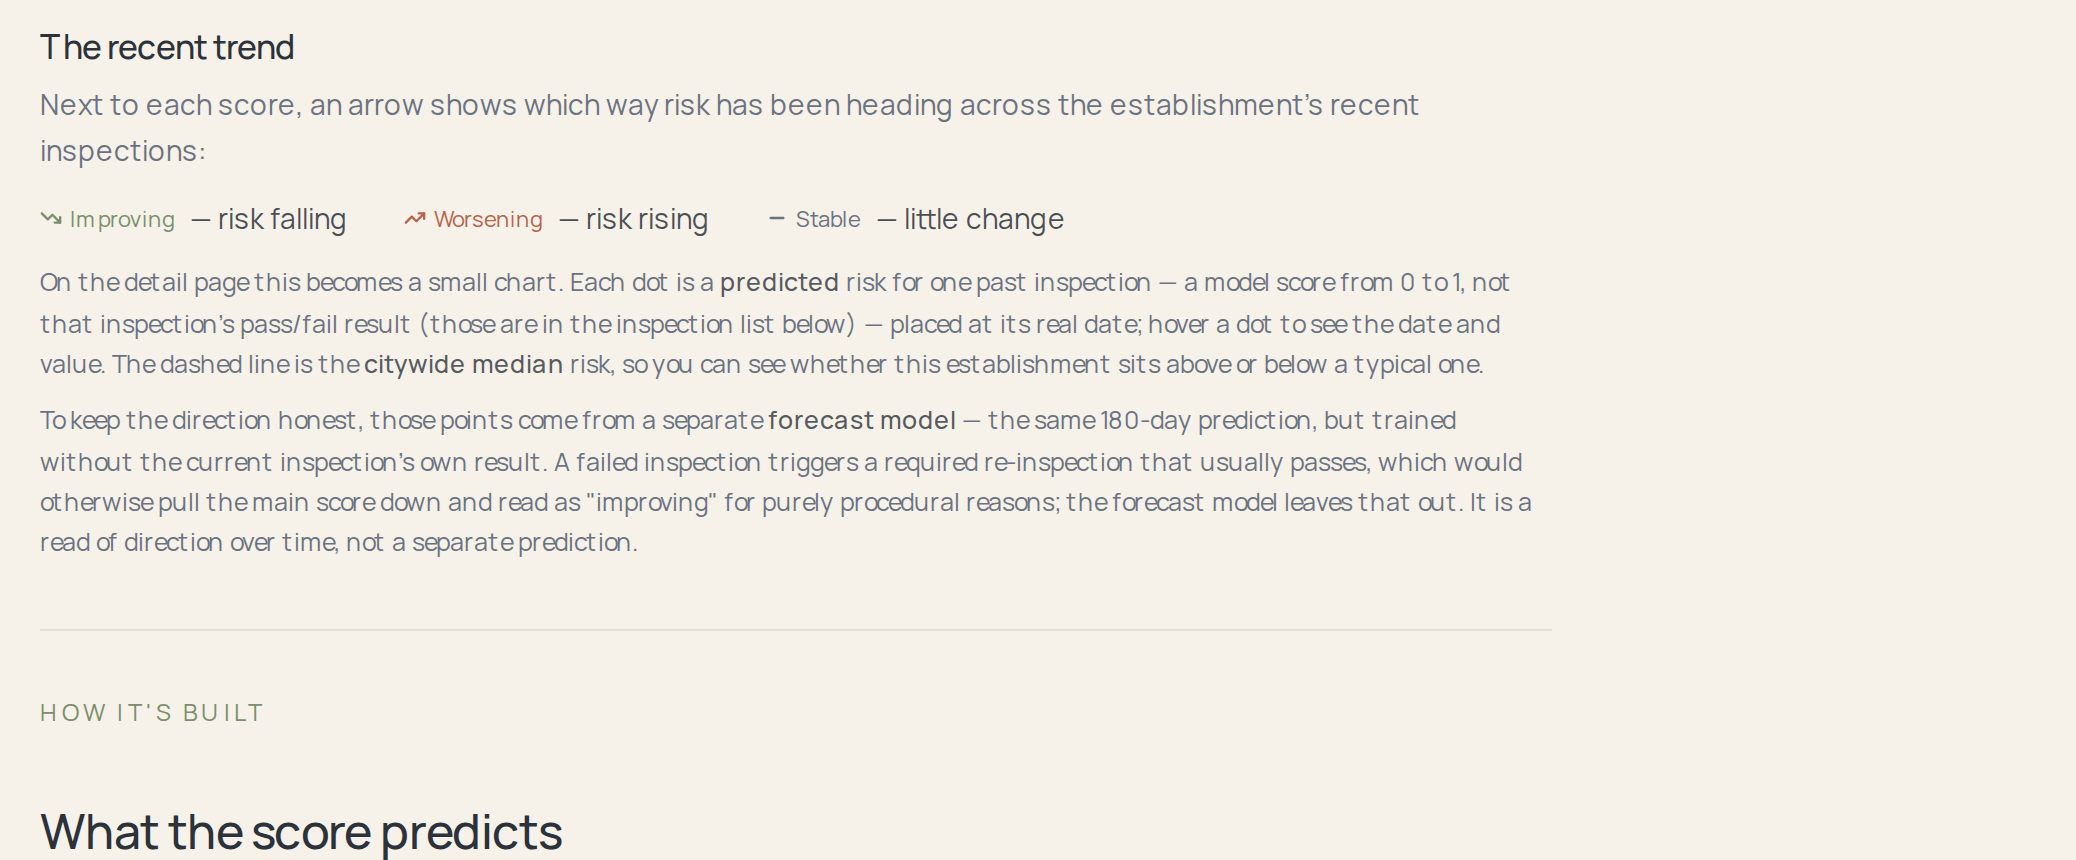
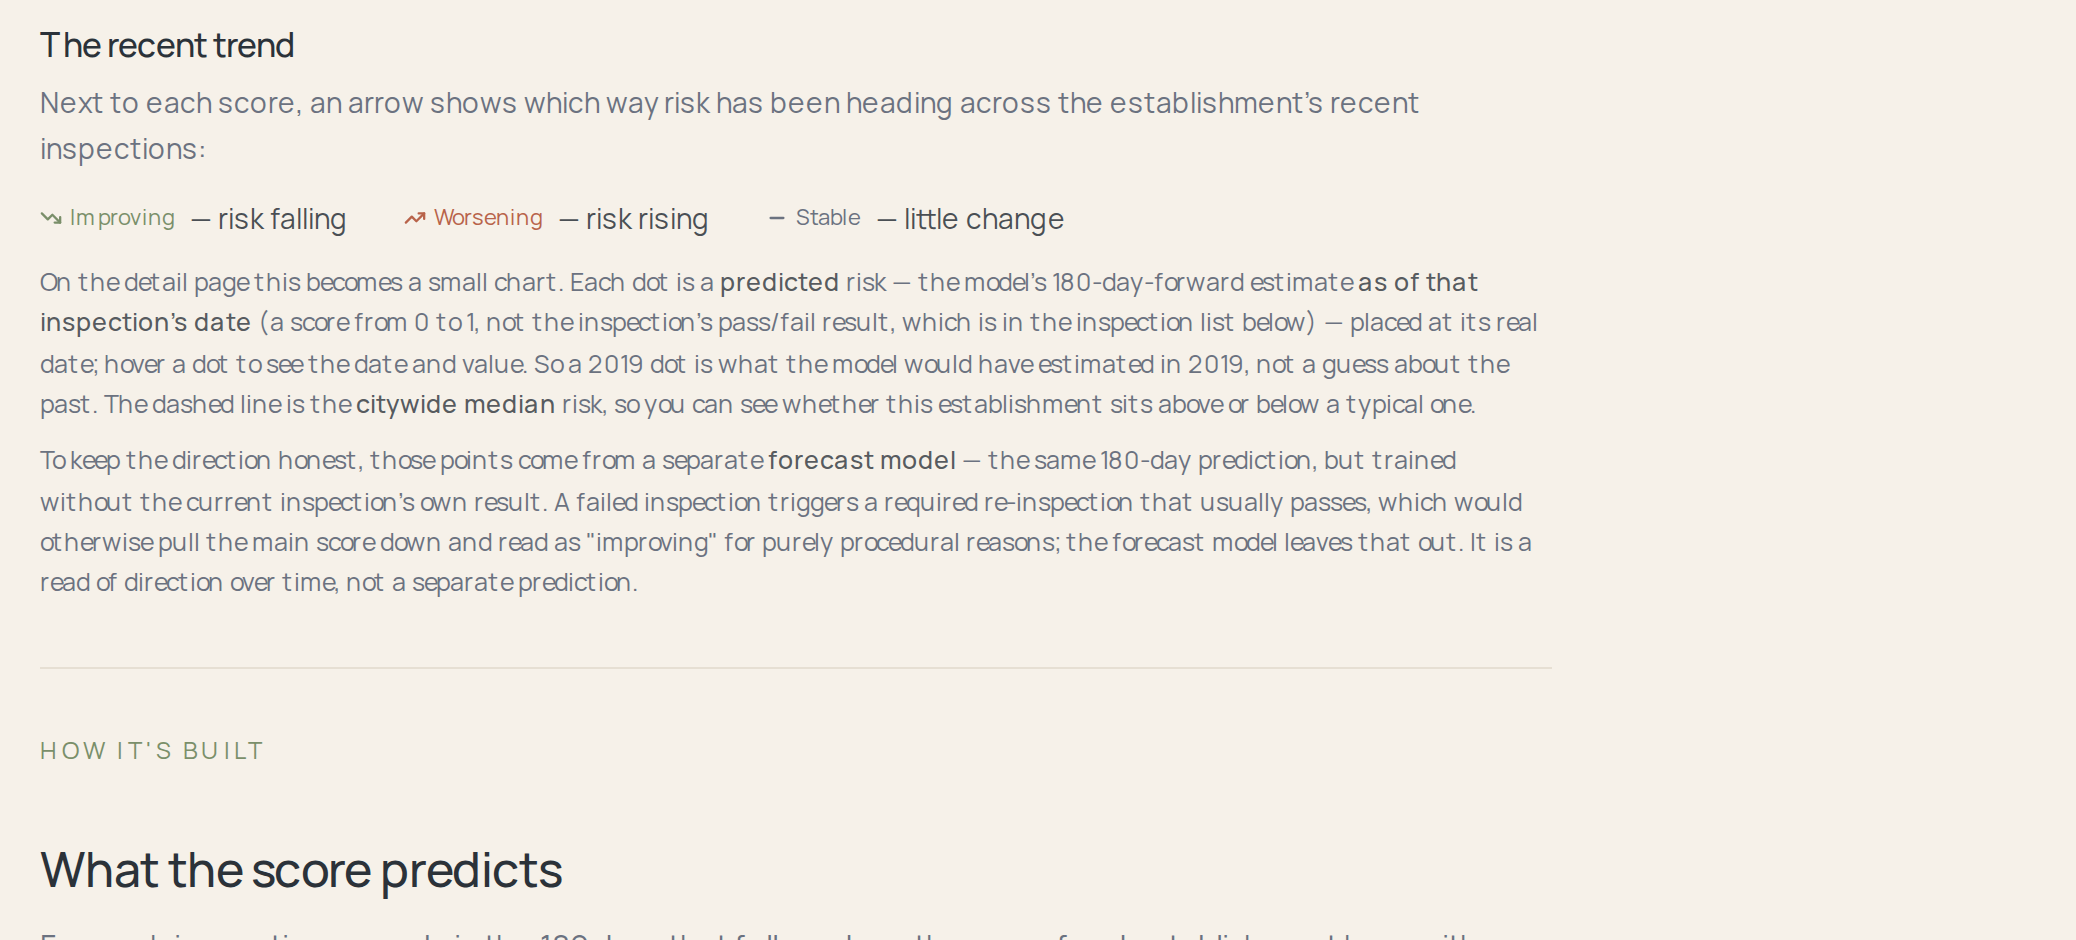
docs(how-it-works): explain per-date predictions + the latest-inspection anchoring
- recent-trend section: each chart dot is the model's 180-day-forward estimate
  AS OF that inspection's date — so a 2019 dot is what the model would have
  estimated in 2019, not a guess about the past.
- "Reading the score": each score is anchored to the establishment's most recent
  inspection on file, so a place not inspected in a while shows older data
  throughout (not a fresh reading). Also fixes a stale "90-day trend" reference.

Re-applied onto the rebased branch (decision record is 0011 here).

diff --git a/app/src/app/how-it-works/page.tsx b/app/src/app/how-it-works/page.tsx
@@ -193,7 +193,12 @@ export default async function HowItWorksPage() {
               means the number is honest about its own odds: across the
               establishments the model scores around 20%, about 1 in 5 actually
               has an event. The map and list summarise that number two ways: a
-              risk band and a 90-day trend.
+              risk band and a recent trend. Each score is anchored to the
+              establishment&apos;s{" "}
+              <span className="font-medium text-ink/80">most recent inspection on
+              file</span>{" "}(its date is shown on the detail page), so an
+              establishment that hasn&apos;t been inspected in a while shows older
+              data throughout — not a fresh reading.
             </p>
 
             <h3 className="text-[1.05rem] font-medium tracking-tight mt-6">
@@ -273,12 +278,16 @@ export default async function HowItWorksPage() {
             </div>
             <p className="text-[12.5px] text-muted leading-relaxed mt-3">
               On the detail page this becomes a small chart. Each dot is a{" "}
-              <span className="font-medium text-ink/80">predicted</span>{" "}risk for one
-              past inspection — a model score from 0 to 1, not that inspection&apos;s
-              pass/fail result (those are in the inspection list below) — placed at
-              its real date; hover a dot to see the date and value. The dashed line
-              is the <span className="font-medium text-ink/80">citywide median</span>{" "}
-              risk, so you can see whether this establishment sits above or below a
+              <span className="font-medium text-ink/80">predicted</span>{" "}risk — the
+              model&apos;s 180-day-forward estimate{" "}
+              <span className="font-medium text-ink/80">as of that inspection&apos;s
+              date</span>{" "}(a score from 0 to 1, not the inspection&apos;s pass/fail
+              result, which is in the inspection list below) — placed at its real
+              date; hover a dot to see the date and value. So a 2019 dot is what the
+              model would have estimated in 2019, not a guess about the past. The
+              dashed line is the{" "}
+              <span className="font-medium text-ink/80">citywide median</span>{" "}risk,
+              so you can see whether this establishment sits above or below a
               typical one.
             </p>
             <p className="text-[12.5px] text-muted leading-relaxed mt-2">
